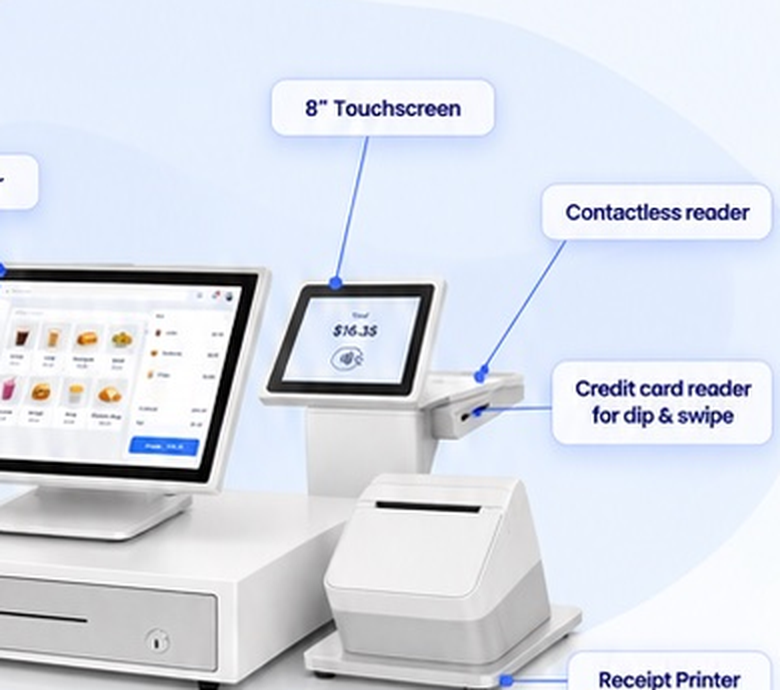
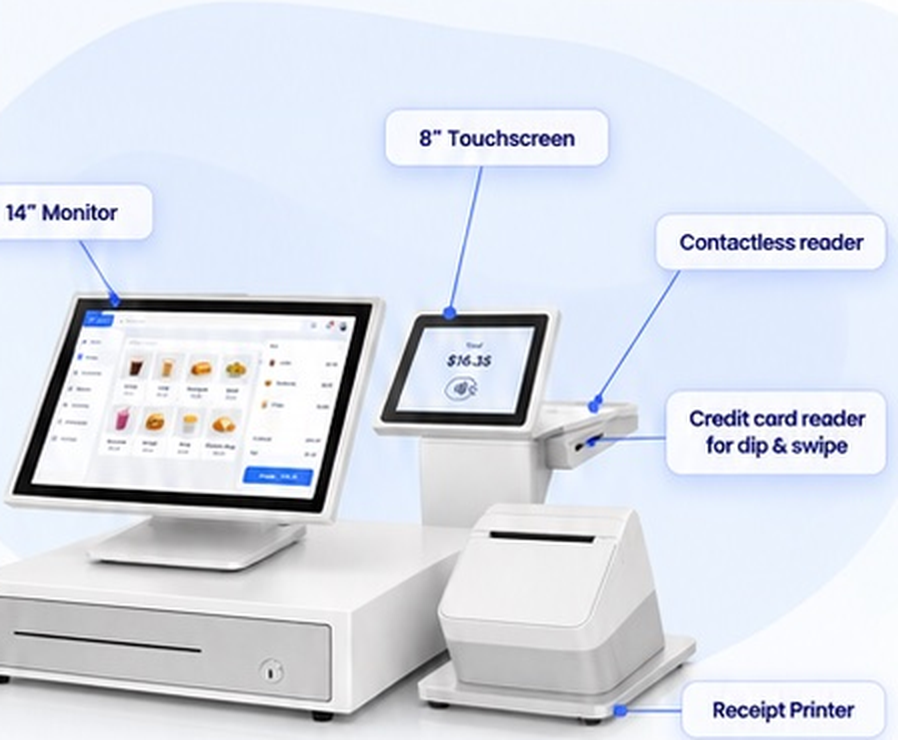
Polish Full POS page responsive image sizing
Expand the hero product crop so all hardware callout labels remain
visible, tighten payment mark layout, and constrain product images so
mobile viewports no longer scroll horizontally.

Changed region(s): [[0.0, 0.1217, 1.0, 1.0], [0.7077, 0.2739, 1.0, 0.3957], [0.6769, 0.3957, 0.7385, 0.4565]]

diff --git a/src/app/services/merchant-services/full-pos-system/page.tsx b/src/app/services/merchant-services/full-pos-system/page.tsx
@@ -132,7 +132,7 @@ export default function FullPosSystemPage() {
   const dashboard = FULL_POS_IMAGES.dashboard;
 
   return (
-    <div className="bg-white text-[#1a1a40]">
+    <div className="overflow-x-hidden bg-white text-[#1a1a40]">
       {/* Hero */}
       <section className="relative overflow-hidden">
         <div
@@ -144,7 +144,7 @@ export default function FullPosSystemPage() {
           aria-hidden="true"
         />
         <div className="relative mx-auto grid max-w-7xl items-center gap-8 px-4 py-10 sm:px-6 sm:py-12 lg:grid-cols-[minmax(0,0.42fr)_minmax(0,0.58fr)] lg:gap-8 lg:px-8 lg:py-14">
-          <div className="animate-fade-up max-w-xl">
+          <div className="animate-fade-up max-w-xl min-w-0">
             <Pill>Merchant Services</Pill>
             <h1 className="mt-4 font-heading text-[2.15rem] font-extrabold leading-[1.12] tracking-tight text-[#1a1a40] sm:text-5xl lg:text-[3.15rem]">
               Full POS
@@ -164,7 +164,7 @@ export default function FullPosSystemPage() {
             </div>
           </div>
 
-          <div className="relative w-full min-w-0">
+          <div className="relative w-full min-w-0 overflow-hidden">
             <div
               className="pointer-events-none absolute left-1/2 top-1/2 h-[78%] w-[92%] -translate-x-1/2 -translate-y-1/2 rounded-[50%] bg-[#e8f2ff] blur-[2px]"
               aria-hidden="true"
@@ -177,7 +177,8 @@ export default function FullPosSystemPage() {
               priority
               quality={95}
               sizes="(max-width: 1024px) 100vw, 58vw"
-              className="relative z-[1] mx-auto h-auto w-full max-w-full object-contain"
+              className="relative z-[1] mx-auto object-contain"
+              style={{ width: "100%", height: "auto", maxWidth: "100%" }}
             />
           </div>
         </div>
@@ -238,7 +239,7 @@ export default function FullPosSystemPage() {
       {/* Software */}
       <section className="bg-[#f7faff] py-12 sm:py-14">
         <div className="mx-auto grid max-w-7xl items-center gap-10 px-4 sm:px-6 lg:grid-cols-2 lg:gap-12 lg:px-8">
-          <div className="rounded-2xl border border-[#e4ecf7] bg-white p-5 shadow-[0_12px_30px_-24px_rgba(15,23,42,0.4)] sm:p-7">
+          <div className="min-w-0 overflow-hidden rounded-2xl border border-[#e4ecf7] bg-white p-5 shadow-[0_12px_30px_-24px_rgba(15,23,42,0.4)] sm:p-7">
             <Image
               src={software.src}
               alt={software.alt}
@@ -246,10 +247,11 @@ export default function FullPosSystemPage() {
               height={software.height}
               quality={92}
               sizes="(max-width: 1024px) 100vw, 46vw"
-              className="h-auto w-full object-contain"
+              className="object-contain"
+              style={{ width: "100%", height: "auto", maxWidth: "100%" }}
             />
           </div>
-          <div className="max-w-lg lg:justify-self-start">
+          <div className="max-w-lg min-w-0 lg:justify-self-start">
             <Pill>Built for Your Business</Pill>
             <h2 className="mt-4 font-heading text-3xl font-extrabold leading-[1.15] tracking-tight text-[#1a1a40] sm:text-[2.35rem]">
               Software Tailored
@@ -272,7 +274,7 @@ export default function FullPosSystemPage() {
       {/* Dashboard */}
       <section className="bg-white py-12 sm:py-14">
         <div className="mx-auto grid max-w-7xl items-center gap-10 px-4 sm:px-6 lg:grid-cols-2 lg:gap-12 lg:px-8">
-          <div className="order-2 max-w-lg lg:order-1">
+          <div className="order-2 max-w-lg min-w-0 lg:order-1">
             <Pill>Real Time Insights</Pill>
             <h2 className="mt-4 font-heading text-3xl font-extrabold leading-[1.15] tracking-tight text-[#1a1a40] sm:text-[2.35rem]">
               Unlock Your
@@ -288,7 +290,7 @@ export default function FullPosSystemPage() {
               <QuoteCtaLink />
             </div>
           </div>
-          <div className="order-1 overflow-hidden rounded-2xl lg:order-2">
+          <div className="order-1 min-w-0 overflow-hidden rounded-2xl lg:order-2">
             <Image
               src={dashboard.src}
               alt={dashboard.alt}
@@ -296,7 +298,8 @@ export default function FullPosSystemPage() {
               height={dashboard.height}
               quality={92}
               sizes="(max-width: 1024px) 100vw, 48vw"
-              className="h-auto w-full object-contain"
+              className="object-contain"
+              style={{ width: "100%", height: "auto", maxWidth: "100%" }}
             />
           </div>
         </div>

diff --git a/src/components/merchant/full-pos/PaymentMarks.tsx b/src/components/merchant/full-pos/PaymentMarks.tsx
@@ -1,32 +1,39 @@
 /** Text-based payment acceptance marks — no invented logo artwork. */
 
-const marks = [
+const topRow = [
   { id: "apple-pay", label: "Apple Pay" },
   { id: "google-pay", label: "Google Pay" },
   { id: "samsung-pay", label: "Samsung Pay" },
+] as const;
+
+const bottomRow = [
   { id: "visa", label: "Visa" },
   { id: "mastercard", label: "Mastercard" },
   { id: "amex", label: "American Express" },
   { id: "discover", label: "Discover" },
 ] as const;
 
+function Mark({ label }: { label: string }) {
+  return (
+    <li className="flex h-10 flex-1 items-center justify-center rounded-lg border border-[#dbe4f0] bg-white px-2 text-center font-heading text-[10px] font-bold uppercase tracking-[0.04em] text-[#1a1a40] sm:h-11 sm:text-[11px]">
+      {label}
+    </li>
+  );
+}
+
 export function PaymentMarks({ className }: { className?: string }) {
   return (
-    <ul
-      className={
-        className ??
-        "grid grid-cols-2 gap-2 sm:grid-cols-3 sm:gap-2.5 lg:grid-cols-2 xl:grid-cols-3"
-      }
-      aria-label="Accepted payment methods"
-    >
-      {marks.map((mark) => (
-        <li
-          key={mark.id}
-          className="flex h-10 items-center justify-center rounded-lg border border-[#dbe4f0] bg-white px-2 text-center font-heading text-[10px] font-bold uppercase tracking-[0.04em] text-[#1a1a40] sm:h-11 sm:text-[11px]"
-        >
-          {mark.label}
-        </li>
-      ))}
-    </ul>
+    <div className={className ?? "flex w-full flex-col gap-2.5"} aria-label="Accepted payment methods">
+      <ul className="flex flex-wrap gap-2 sm:gap-2.5">
+        {topRow.map((mark) => (
+          <Mark key={mark.id} label={mark.label} />
+        ))}
+      </ul>
+      <ul className="flex flex-wrap gap-2 sm:gap-2.5">
+        {bottomRow.map((mark) => (
+          <Mark key={mark.id} label={mark.label} />
+        ))}
+      </ul>
+    </div>
   );
 }

diff --git a/src/lib/full-pos-images.ts b/src/lib/full-pos-images.ts
@@ -6,8 +6,8 @@ export const FULL_POS_IMAGES = {
   hero: {
     src: "/images/merchant/full-pos/full-pos-hero.png",
     alt: "Full POS System with 14 inch monitor, 8 inch touchscreen, contactless reader, credit card reader, receipt printer, and cash drawer",
-    width: 780,
-    height: 690,
+    width: 898,
+    height: 740,
   },
   softwareIcons: {
     src: "/images/merchant/full-pos/software-icons.png",
